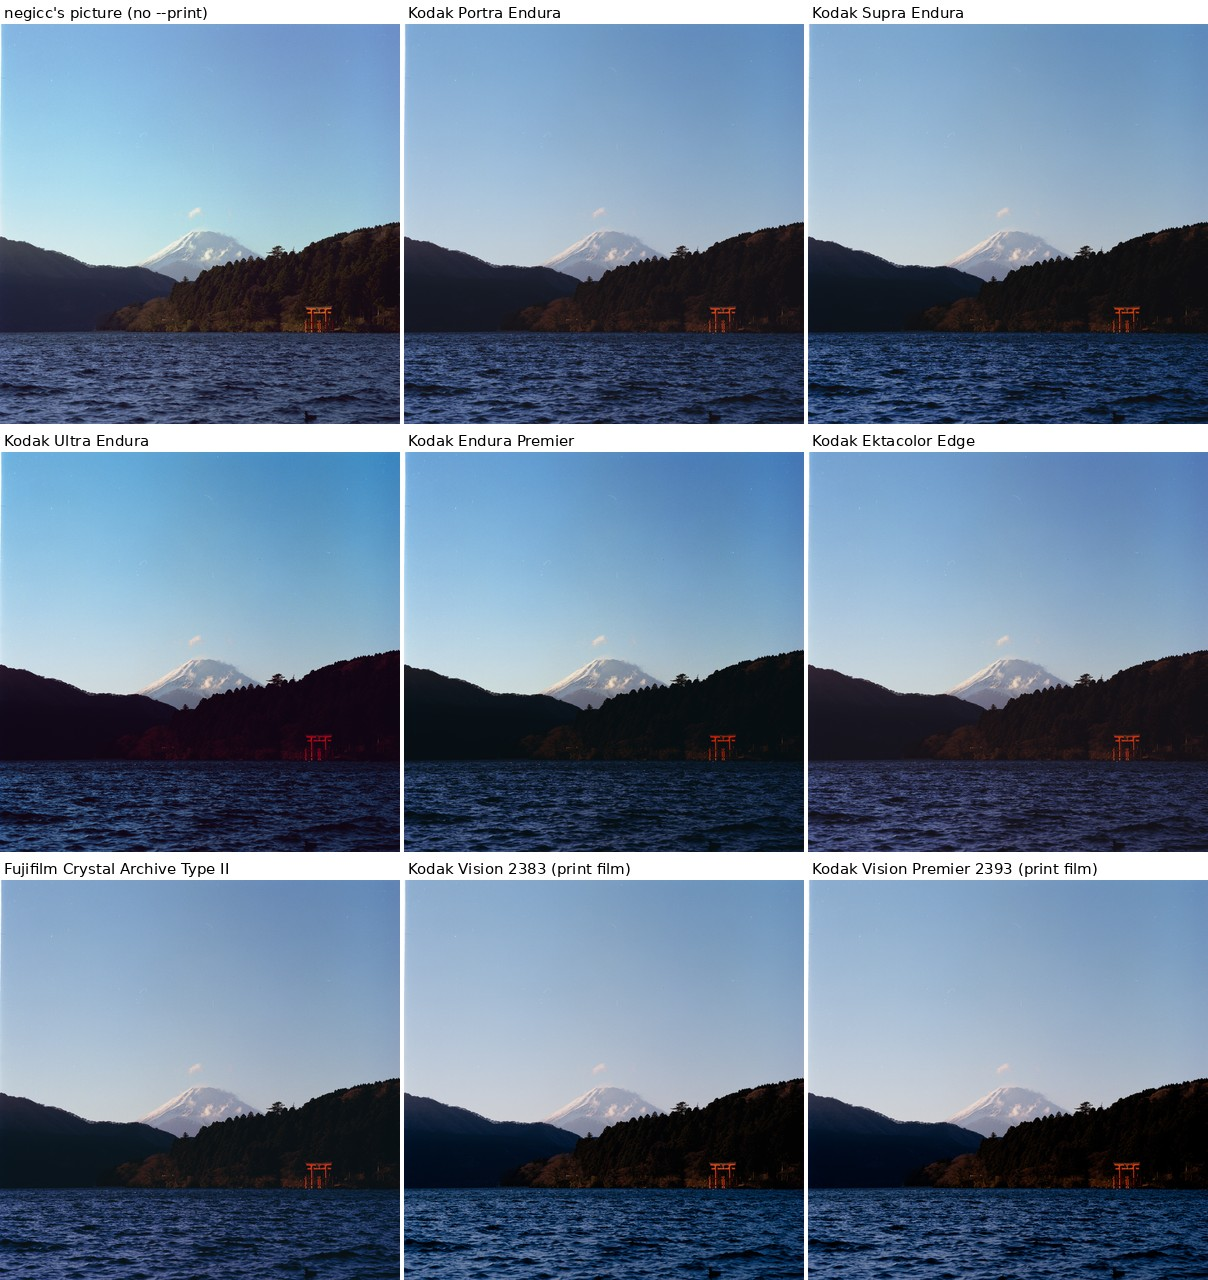
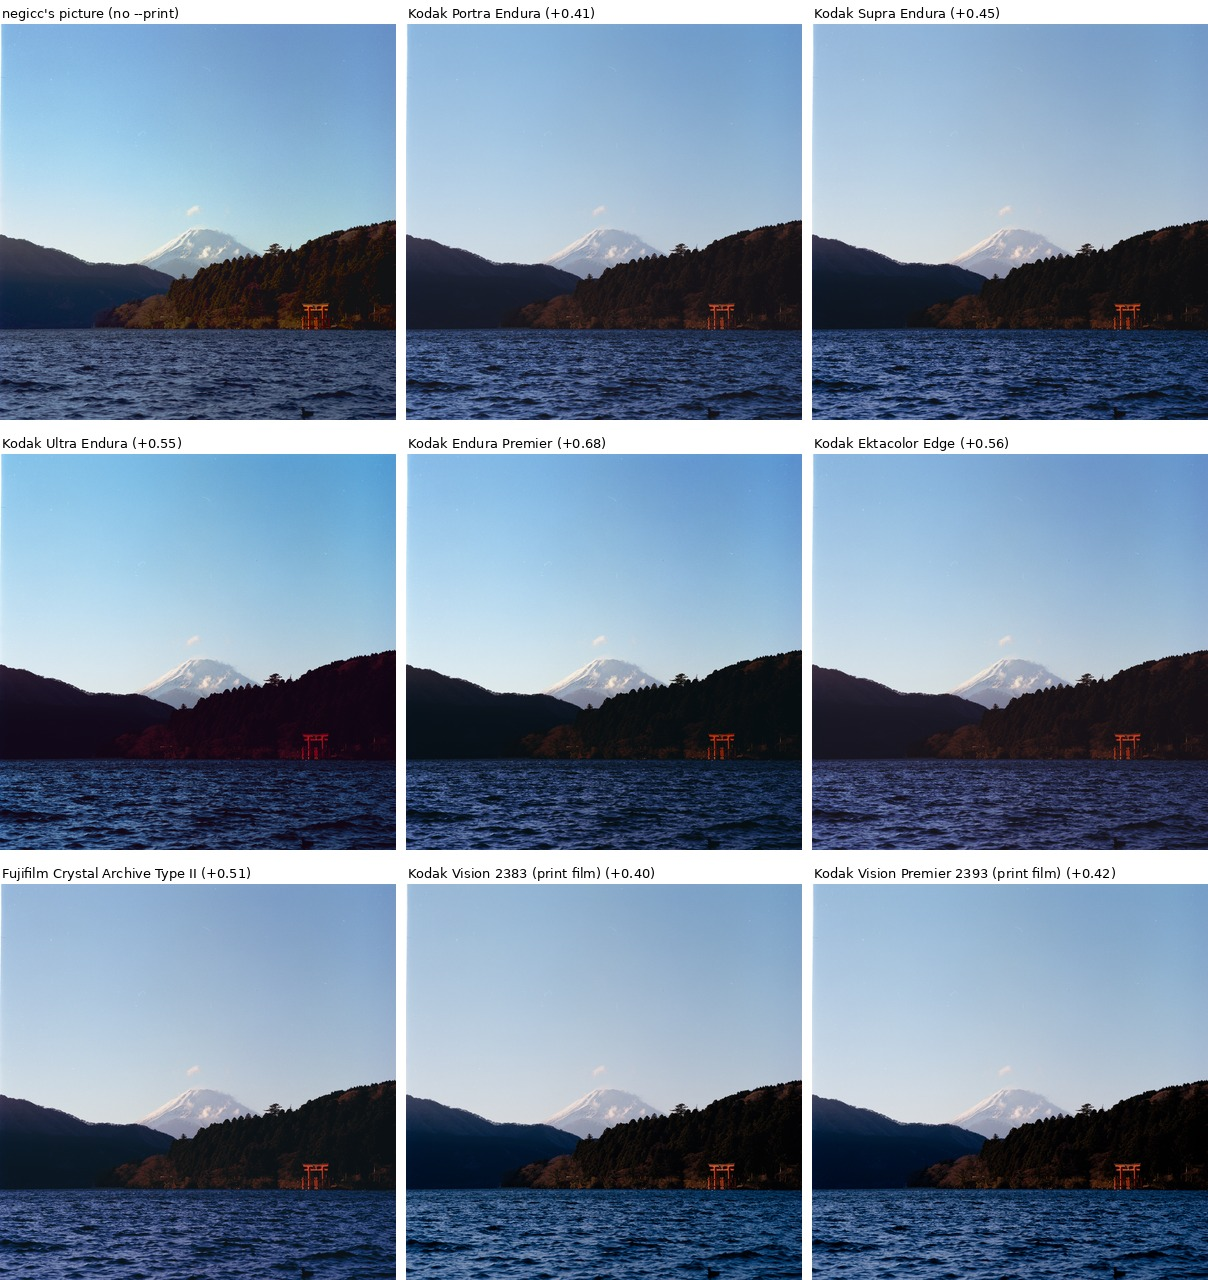
Match print materials grid lightness with --brightness and state TriLED print dE00

diff --git a/README.md b/README.md
@@ -306,12 +306,14 @@ how they take the scan into that table:
   paper-white shoulder unmodified. (`--brightness` adjusts the printing exposure `A`, and `--tint` and `--warmth`
   adjust the print's colour balance, for both the picture output and the density CLFs.)
 - **TriLED vs. D65 white light:** Under the narrow-band RGB LED (`--light_source tri`), the three LED spectra are
-  measured and separate the film's three dye layers directly, fitting the film model's Academy Printing Density to
-  within 0.010 RMS (and the print ICC's table sampling error is 0.04 ΔE₀₀ on the chart). Under broadband white light
+  measured and separate the film's three dye layers directly: against the full spectral print model (integrating the
+  film's dye spectra under the 3200 K printer lamp), the 3 × 3 print matrix fits the printing density to 0.005–0.009
+  RMS and reproduces the spectral print to **0.6 to 1.5 ΔE₀₀ on average** (median 0.4 to 0.7 ΔE₀₀ across the three film
+  stocks; the print ICC's 45³ table adds only 0.04 ΔE₀₀ of interpolation error). Under broadband white light
   (`--light_source d65`), no lamp or camera spectrum is measured — the decoded channels are taken as standard linear
   Rec.2020 under D65, with no curve fit applied on a print — so the density reading is 0.03 to 0.09 APD RMS from the
   narrow-band reading, and a chart patch printed from a white-light scan differs from the same patch printed from an
-  RGB-LED scan by 2.7 to 3.3 ΔE₀₀ on average.
+  RGB-LED scan by **2.7 to 3.3 ΔE₀₀ on average**.
 
 | Material | Type | Viewing light | Its paper white, L\* a\* b\* under that light (shown at the display's white) |
 |---|---|---|---|
@@ -326,23 +328,11 @@ how they take the scan into that table:
 
 ![The same negative as negicc's picture and as a print on each of the eight print materials](samples/print_materials_triled.jpg)
 
-*Top left: scene colour matching (without `--print`; mean L\* 52.9, median L\* 66.0). Then the six papers and the two
-print films, each rendered by its own automatic print search (`--print <material> -P srgb`) and shown relative to its
-paper's white — they are not forced to the same lightness, because each material's characteristic S-curve has its own
-toe and contrast. To match a print's overall lightness to the scene conversion with `--brightness <stops>` (computed
-from the relative luminance of the scene's and the print's mean L\*):*
-
-| Grid cell | Material (`--print`) | Auto mean / median L\* | `--brightness` to match scene mean L\* (median L\*) |
-|---|---|---|---|
-| Top left | Scene picture (no `--print`) | 52.9 / 66.0 | `0.00` (`0.00`) |
-| Top middle | Kodak Portra Endura (`kodak_portra_endura`) | 47.1 / 61.2 | `+0.38` (`+0.26`) |
-| Top right | Kodak Supra Endura (`kodak_supra_endura`) | 46.6 / 61.8 | `+0.42` (`+0.23`) |
-| Middle left | Kodak Ultra Endura (`kodak_ultra_endura`) | 44.8 / 60.1 | `+0.54` (`+0.32`) |
-| Center | Kodak Endura Premier (`kodak_endura_premier`) | 43.4 / 56.7 | `+0.65` (`+0.52`) |
-| Middle right | Kodak Ektacolor Edge (`kodak_ektacolor_edge`) | 44.8 / 57.8 | `+0.54` (`+0.46`) |
-| Bottom left | Fujifilm Crystal Archive Type II (`fujifilm_crystal_archive_typeii`) | 45.4 / 60.3 | `+0.50` (`+0.31`) |
-| Bottom middle | Kodak Vision 2383 (`kodak_2383`) | 46.8 / 63.5 | `+0.40` (`+0.14`) |
-| Bottom right | Kodak Vision Premier 2393 (`kodak_2393`) | 46.3 / 63.1 | `+0.44` (`+0.15`) |
+*Top left: scene colour matching (without `--print`). Then the six papers and the two print films, each searched by its
+own print search (`--print <material> -P srgb`), shown relative to its paper's white, and matched to the scene
+conversion's lightness with `--brightness` (the offset in stops is shown in each cell's title: Portra Endura `+0.41`,
+Supra Endura `+0.45`, Ultra Endura `+0.55`, Endura Premier `+0.68`, Ektacolor Edge `+0.56`, Crystal Archive Type II
+`+0.51`, Vision 2383 `+0.40`, Vision Premier 2393 `+0.42`).*
 
 ## Options
 
